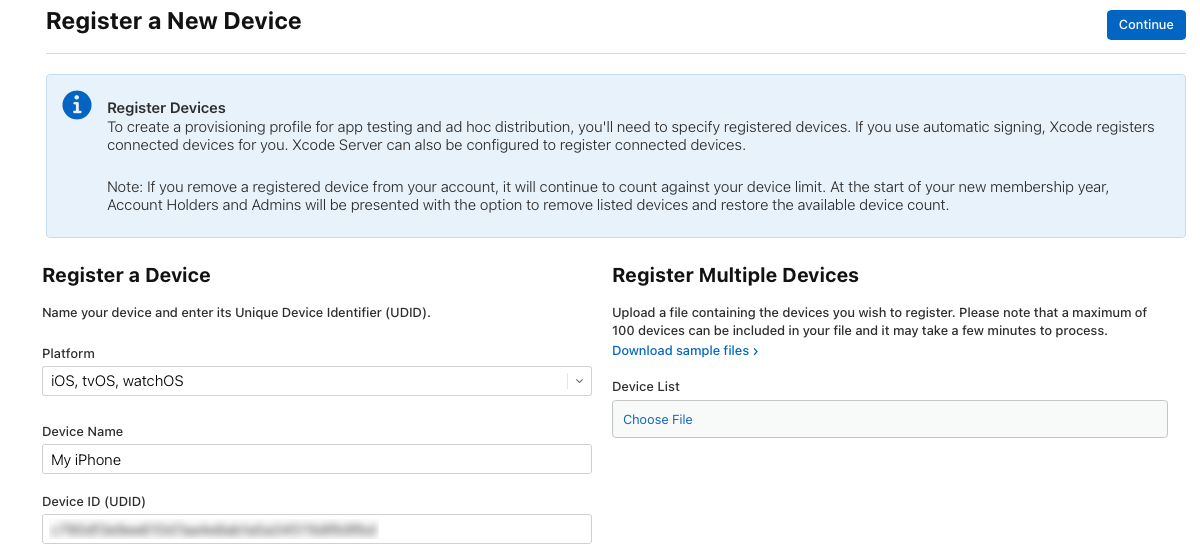
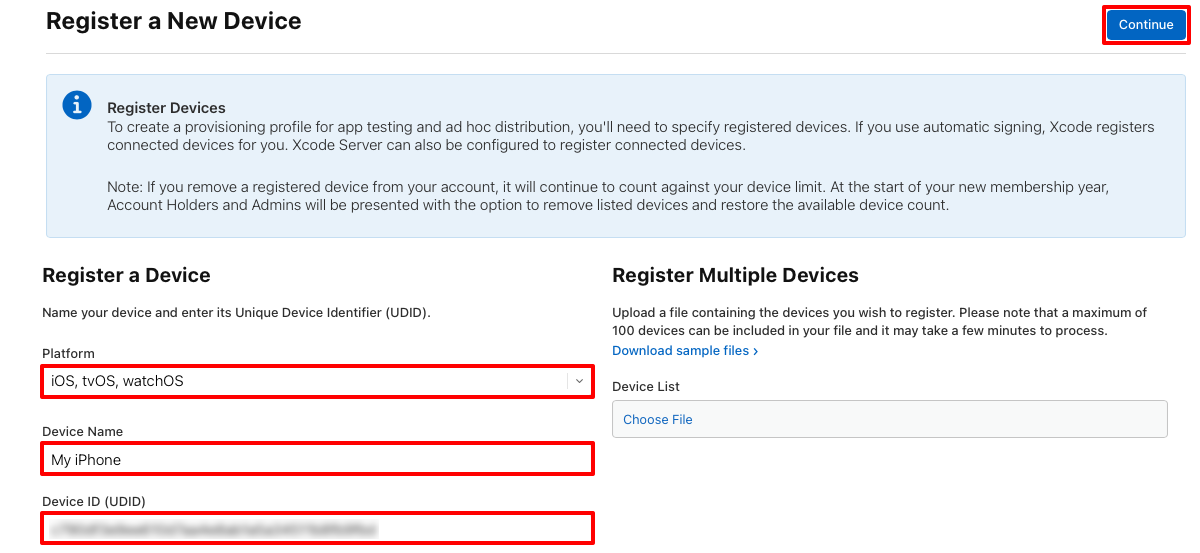
More screenshots.

diff --git a/docs/ios/device-provisioning/manual-provisioning.md b/docs/ios/device-provisioning/manual-provisioning.md
@@ -58,11 +58,10 @@ When creating a provisioning profile for development, the profile must include w
     :::image type="content" source="media/manual-provisioning/xcode-devices.png" alt-text="Xcode devices and simulator window with the iOS identifier string location highlighted.":::
 
 1. In a web browser, go to the [Devices](https://developer.apple.com/account/resources/devices/list) section of Apple's developer portal and click the **+** button.
-1. In the **Register a New Device** page, set the correct **Platform** and provide a name for the new device. Then paste the identifier from the clipboard into the **Device ID (UDID)** field:
+1. In the **Register a New Device** page, set the correct **Platform** and provide a name for the new device. Then paste the identifier from the clipboard into the **Device ID (UDID)** field, and click the **Continue** button:
 
     :::image type="content" source="media/manual-provisioning/add-device.png" alt-text="Register a device by naming it and entering its unique device identifier.":::
 
-1. In the **Register a New Device** page, click the **Continue** button.
 1. In the **Register a New Device** page, review the information and then click the **Register** button.
 
 Repeat the above steps for any iOS device that you'll use to test or debug a .NET MAUI iOS app.
@@ -90,11 +89,10 @@ A wildcard App ID can be created with the following steps:
 1. In a web browser, go to the [Identifiers](https://developer.apple.com/account/resources/identifiers/list) section of Apple's developer portal and click the **+** button.
 1. In the **Register a new identifier** page, select **App IDs** and click the **Continue** button.
 1. In the **Register a new identifier** page, select the **App** type and click the **Continue** button.
-1. In the **Register an App ID** page, provide a **Description** and set the **Bundle ID** to **Wildcard**. Then, enter an App ID in the format `com.domainname.*`:
+1. In the **Register an App ID** page, provide a **Description** and set the **Bundle ID** to **Wildcard**. Then, enter an App ID in the format `com.domainname.*` and click the **Continue** button:
 
     :::image type="content" source="media/manual-provisioning/register-app-id.png" alt-text="Screenshot of new App ID registration page with required fields populated.":::
 
-1. In the **Register an App ID** page, click the **Continue** button.
 1. In the **Confirm your App ID** page, review the information and then click the **Register** button.
 
 ### Create a development provisioning profile
@@ -104,11 +102,26 @@ Once the App ID has been created, you should create a development provisioning p
 A development provisioning profile can be created with the following steps:
 
 1. In a web browser, go to the [Profiles](https://developer.apple.com/account/resources/profiles/list) section of Apple's developer portal and click the **+** button.
-1. In the **Register a New Provisioning Profile** page, in the **Development** section, select **iOS App Development** and click the **Continue** button.
+1. In the **Register a New Provisioning Profile** page, in the **Development** section, select **iOS App Development** and click the **Continue** button:
+
+    :::image type="content" source="media/manual-provisioning/provisioning-profile-ios.png" alt-text="Screenshot of creating a provisioning profile for iOS app development.":::
+
 1. In the **Generate a Provisioning Profile** page, select the **App ID** to use and then click the **Continue** button.
+
+    :::image type="content" source="media/manual-provisioning/provisioning-profile-appid.png" alt-text="Screenshot of adding an App ID to a provisioning profile.":::
+
 1. In the **Generate a Provisioning Profile** page, select the certificates to include in the provisioning profile and then click the **Continue** button.
+
+    :::image type="content" source="media/manual-provisioning/provisioning-profile-certificates.png" alt-text="Screenshot of adding a certificate to a provisioning profile.":::
+
 1. In the **Generate a Provisioning Profile** page, select the devices that the app will be installed on and then click the **Continue** button.
+
+    :::image type="content" source="media/manual-provisioning/provisioning-profile-devices.png" alt-text="Screenshot of adding a device to a provisioning profile.":::
+
 1. In the **Generate a Provisioning Profile** page, provide a provisioning profile name and then click the **Generate** button.
+
+    :::image type="content" source="media/manual-provisioning/provisioning-profile-name.png" alt-text="Screenshot of naming a provisioning profile.":::
+
 1. In the **Generate a Provisioning Profile** page, you can optionally click the **Download** button to download the provisioning profile.
 
 ## Download provisioning profiles in Visual Studio
